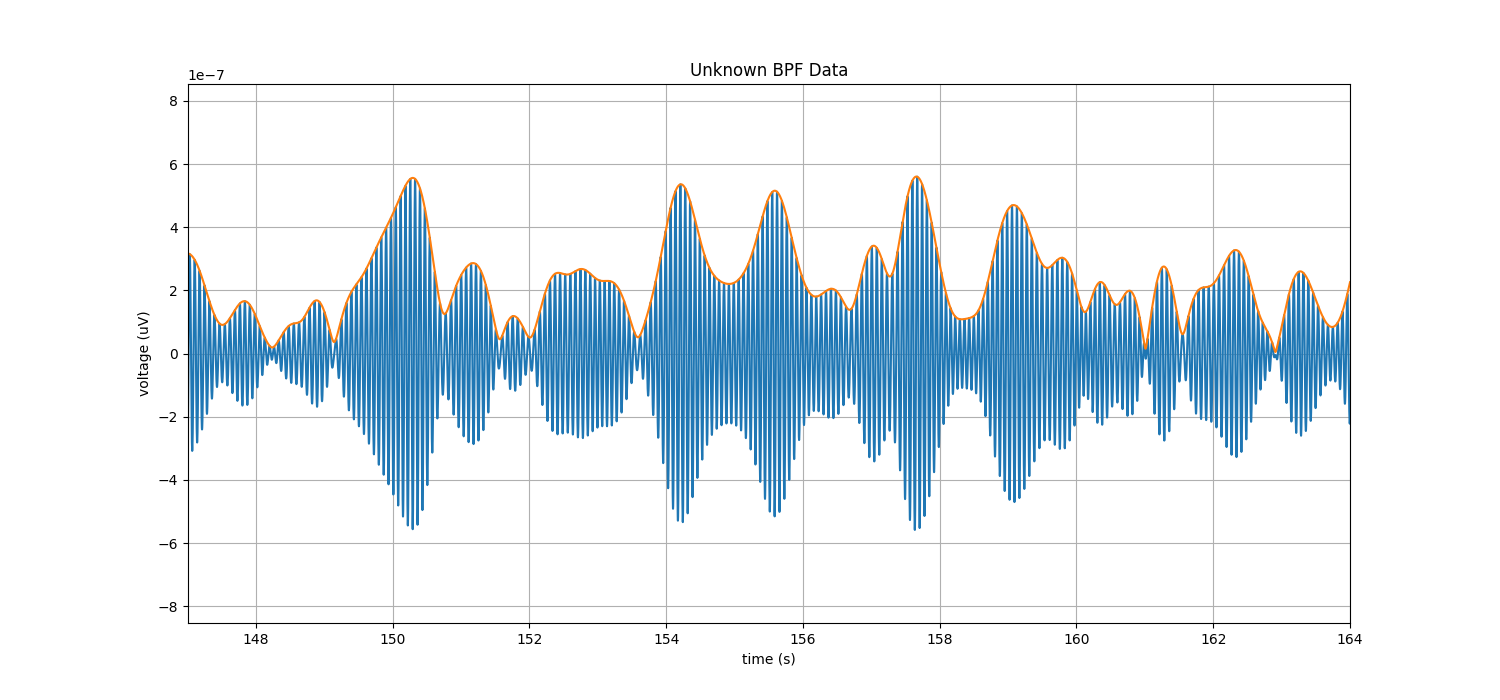
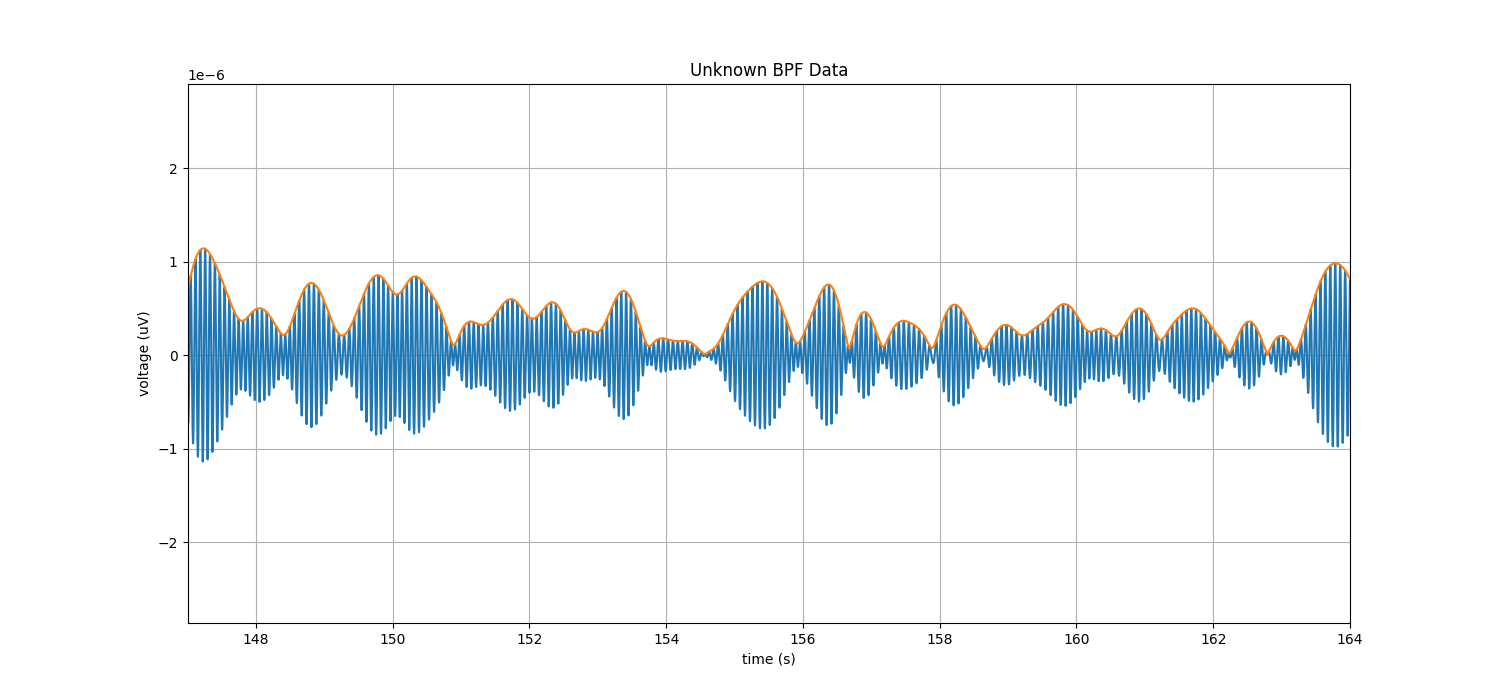
Fixing envelope

Changed region(s): [[0.1227, 0.24, 0.92, 0.78]]

diff --git a/filter_ssvep_data.py b/filter_ssvep_data.py
@@ -45,7 +45,7 @@ def make_bandpass_filter(low_cutoff, high_cutoff, filter_order=10, fs=1000, filt
     axis[1].set_xlim(0, 60)
     axis[1].set_ylabel('amplitude (dB)')
     
-    plt.savefig(f"plots/Limit_{filter_type}_filter_{low_cutoff}-{high_cutoff}Hz_order{filter_order}.png")
+    # plt.savefig(f"plots/Limit_{filter_type}_filter_{low_cutoff}-{high_cutoff}Hz_order{filter_order}.png")
     
     return filter_coefficients
 
@@ -66,7 +66,7 @@ def filter_data(data, b):
             - filtered_data: data dictionary after having applied the filter forwards
             and backwards in time to each channel in the raw data.
     """
-    eeg = data['eeg']       
+    eeg = data['eeg'] 
 
     filter_data = signal.filtfilt(b, a=1, x=eeg)
     
@@ -90,22 +90,27 @@ def get_envelope(data, filtered_data, channel_to_plot=None, ssvep_frequency=None
             - envelope (array | Shape (n_channels, n_time_points)): Amplitude of oscillations.
     
     """
+    eeg = data['eeg']  
+    fs = data['fs']
+    channels = data['channels']
+    
+     # Create time variable
+    number_of_samples = np.shape(eeg[0]) # number of samples in one session
+    eeg_end_time = 1/fs * number_of_samples[0] # time point when the session ends in seconds
+    time = np.linspace(start= 0, stop=eeg_end_time, num=number_of_samples[0]) 
+    amplitude_envelope = []
+    int_ch_plot = int(channel_to_plot)
+    
+    for channel_idx, channel in enumerate(channels):
+
+        filtered_signal_channel = filtered_data[channel_idx]
+        analytical_signal = signal.hilbert(filtered_signal_channel)
+        amplitude_envelope.append(np.abs(analytical_signal))
+
     if channel_to_plot is not None:
-        eeg = data['eeg']  
-        fs = data['fs']
-        
-        # Create time variable
-        number_of_samples = np.shape(eeg[0]) # number of samples in one session
-        eeg_end_time = 1/fs * number_of_samples[0] # time point when the session ends in seconds
-        time = np.linspace(start= 0, stop=eeg_end_time, num=number_of_samples[0]) 
-
-        filtered_signal = filtered_data[int(channel_to_plot)]
-        analytical_signal = signal.hilbert(filtered_signal)
-        amplitude_envelope = np.abs(analytical_signal)
-
         figure, axis = plt.subplots(1,1, figsize=(15, 7)) 
-        axis.plot(time, filtered_signal, label="Filtered signal")
-        axis.plot(time, amplitude_envelope, label="Envelope")
+        axis.plot(time, filtered_data[int_ch_plot], label="Filtered signal")
+        axis.plot(time, amplitude_envelope[int_ch_plot], label="Envelope")
         axis.set_xlim(147, 164)
         
         # axis.set_ylim(-10, 10)
@@ -117,8 +122,7 @@ def get_envelope(data, filtered_data, channel_to_plot=None, ssvep_frequency=None
             axis.set_title("Unknown BPF Data")
         axis.grid(True)
        
-        plt.savefig(f'plots/Channel_{channel_to_plot}-{ssvep_frequency}Hz.png')
-        # Create new plot of that channel
+        # plt.savefig(f'plots/Channel_{channel_to_plot}-{ssvep_frequency}Hz.png')
 
     return amplitude_envelope
 
@@ -180,7 +184,7 @@ def plot_ssvep_amplitudes(data, envelope_a, envelope_b, channel_to_plot, ssvep_f
     
     plt.suptitle(f'SSVEP S{subject} Amplitudes - Channel {channel_to_plot}')
     plt.tight_layout()
-    plt.savefig(f"plots/Channel_{channel_to_plot}_Subject_{subject}_{ssvep_freq_a}Hz-{ssvep_freq_b}Hz_envelope_comparison_limit.png")
+    # plt.savefig(f"plots/Channel_{channel_to_plot}_Subject_{subject}_{ssvep_freq_a}Hz-{ssvep_freq_b}Hz_envelope_comparison_limit.png")
     
 # Part 6
 def plot_filtered_spectra(data, filtered_data, envelope, channels_to_plot, subject):
@@ -201,26 +205,45 @@ def plot_filtered_spectra(data, filtered_data, envelope, channels_to_plot, subje
         ----------
             None
     """
+    
     # Use cases from Lab3 
     channels = data['channels']
     fs = data['fs']
 
     # Plots raw data
-    # isd.plot_raw_data(subject, data_dict, channels_to_plot)
     eeg_epochs, epoch_times, is_trial_15Hz = epoch_ssvep_data(data)
-
-    # Get the FFT
+    egg_epochs_fft, fft_frequencies = get_frequency_spectrum(eeg_epochs, fs) # eeg_epochs_fft -> (20, 32, 10001)
+    raw_spectrum_db_12Hz, raw_spectrum_db_15Hz = plot_power_spectrum(egg_epochs_fft, fft_frequencies, is_trial_15Hz, channels, channels_to_plot, subject)
+    
+    # Plots filtered_data # (32, 467580)
+    eeg_epochs, epoch_times, is_trial_15Hz= epoch_filtered_data(data, filtered_data, epoch_start_time=0, epoch_end_time=20)
     egg_epochs_fft, fft_frequencies = get_frequency_spectrum(eeg_epochs, fs)
+    filtered_spectrum_db_12Hz, filtered_spectrum_db_15Hz = plot_power_spectrum(egg_epochs_fft, fft_frequencies, is_trial_15Hz, channels, channels_to_plot, subject)
 
-    # # Plot the power Spectrum
-    plot_power_spectrum(egg_epochs_fft, fft_frequencies, is_trial_15Hz, channels, channels_to_plot, subject)
+    # Plots envelope
+    eeg_epochs, epoch_times, is_trial_15Hz = epoch_ssvep_data(envelope)
+    egg_epochs_fft, fft_frequencies = get_frequency_spectrum(eeg_epochs, fs)
+    envelope_spectrum_db_12Hz, envelope_spectrum_db_15Hz = plot_power_spectrum(egg_epochs_fft, fft_frequencies, is_trial_15Hz, channels, channels_to_plot, subject)
+    
     
     # Create Figure    
     fig, axs = plt.subplots(3, 2, sharex= True, figsize=(12, 6))
+    for channel, channel_index in enumerate(channels_to_plot):
+        print(channel)
+        exit()
+        axs[channel].plot(fft_frequencies, spectrum_db_12Hz[channel], label='12Hz Trials')
+        axs[channel].plot(fft_frequencies, spectrum_db_15Hz[channel], label='15Hz Trials')
+        axs[channel].axvline(x=12, linestyle='--', color='gray')
+        axs[channel].axvline(x=15, linestyle='--', color='gray')
+        #format plot
+        axs[channel].set_title(f'Channel {channels[channel_index]} Power Spectrum (Subject {subject})')
+        axs[channel].set_ylabel('Power (dB)')
+        axs[channel].legend()
+    
     
 # Plotting power spectrum from Lab 3
 #%% Part 5
-def plot_power_spectrum(eeg_epochs_fft, fft_frequencies, is_trial_15Hz, channels, channels_to_plot, subject ):
+def plot_power_spectrum(eeg_epochs_fft, fft_frequencies, is_trial_15Hz, channels, channels_to_plot, subject):
     """
         Calculate the mean power spectra for the specified channels
         and then, plot each in their own subplot.
@@ -255,7 +278,6 @@ def plot_power_spectrum(eeg_epochs_fft, fft_frequencies, is_trial_15Hz, channels
     
     # Create subplots
     fig, axs = plt.subplots(len(channels_to_plot), 1, figsize=(12, 8), sharex=True)
-    
     
     # Iterate over each channel to plot
     for channel, channel_index in enumerate(channels_to_plot):
@@ -292,18 +314,47 @@ def plot_power_spectrum(eeg_epochs_fft, fft_frequencies, is_trial_15Hz, channels
         spectrum_db_15Hz.append(10 * np.log10(mean_power_15Hz_norm))       
 
        # Plot the mean power spectra
-        axs[channel].plot(fft_frequencies, spectrum_db_12Hz[channel], label='12Hz Trials')
-        axs[channel].plot(fft_frequencies, spectrum_db_15Hz[channel], label='15Hz Trials')
-        axs[channel].axvline(x=12, linestyle='--', color='gray')
-        axs[channel].axvline(x=15, linestyle='--', color='gray')
-        #format plot
-        axs[channel].set_title(f'Channel {channels[channel_index]} Power Spectrum (Subject {subject})')
-        axs[channel].set_ylabel('Power (dB)')
-        axs[channel].legend()
+    #     axs[channel].plot(fft_frequencies, spectrum_db_12Hz[channel], label='12Hz Trials')
+    #     axs[channel].plot(fft_frequencies, spectrum_db_15Hz[channel], label='15Hz Trials')
+    #     axs[channel].axvline(x=12, linestyle='--', color='gray')
+    #     axs[channel].axvline(x=15, linestyle='--', color='gray')
+    #     #format plot
+    #     axs[channel].set_title(f'Channel {channels[channel_index]} Power Spectrum (Subject {subject})')
+    #     axs[channel].set_ylabel('Power (dB)')
+    #     axs[channel].legend()
 
-    plt.xlabel('Frequency (Hz)')
-    plt.tight_layout()
-    #save plot
-    plt.savefig(f'plots/power_spectrum/SSVEP_S{subject}_Power Spectrum_Full_diffEpochStartEnd.png')
+    # plt.xlabel('Frequency (Hz)')
+    # plt.tight_layout()
+    # #save plot
+    # plt.savefig(f'plots/power_spectrum/SSVEP_S{subject}_Power Spectrum_Full_diffEpochStartEnd.png')
 
     return spectrum_db_12Hz, spectrum_db_15Hz
+
+def epoch_filtered_data(data, eeg_data, epoch_start_time=0, epoch_end_time=20):
+    fs = data['fs'] # 1000
+    event_samples = data['event_samples'] # (20,)
+    event_durations = data['event_durations'] # (20,) -> how long each event occured for
+    event_types = data['event_types'] # (20,) -> frequency of flickering (12Hz or 15Hz)
+    channels = data['channels'] # names of channels (32,)
+    # Get the samples per epoch time dimension    
+    samples_per_second = fs # Hz
+    seconds_per_epoch = epoch_end_time - epoch_start_time
+    samples_per_epoch = int(samples_per_second * seconds_per_epoch) 
+    
+    # Create empty 3D array of epochs. 
+    eeg_epochs = np.zeros((len(event_samples), len(channels), samples_per_epoch)) # (20, 32, 20000)
+    
+    # Loop through samples to extract epochs    
+    for event_index, event in enumerate(event_samples):
+        before_flash = epoch_start_time * samples_per_epoch
+        start_sample = int(event + before_flash) # When the event starts
+        end_sample = int((event + event_durations[event_index]))
+        eeg_epochs[event_index] = eeg_data[:, start_sample:end_sample]
+
+    # Get the epoch times 1D of times relative to events
+    epoch_times = np.arange(epoch_start_time, epoch_end_time, 1/samples_per_second ) # Shape (20000,)
+
+    # Change 15Hz for True values
+    is_trial_15Hz = [False if x == "12hz" else True for x in event_types]    
+    
+    return eeg_epochs, epoch_times, is_trial_15Hz

diff --git a/test_filter_ssvep_data.py b/test_filter_ssvep_data.py
@@ -3,7 +3,7 @@ from import_ssvep_data import plot_raw_data as plot
 from import_ssvep_data import epoch_ssvep_data
 import numpy as np
 from import_ssvep_data import get_frequency_spectrum, epoch_ssvep_data
-from filter_ssvep_data import make_bandpass_filter, filter_data, get_envelope, plot_ssvep_amplitudes
+from filter_ssvep_data import make_bandpass_filter, filter_data, get_envelope, plot_ssvep_amplitudes, plot_filtered_spectra
 
 subject = 2
 data_directory = "SSVEP_data"
@@ -24,7 +24,11 @@ filtered_data_2 = filter_data(data, filter_coeff_2)
 envelope_1 = get_envelope(data, filtered_data_1, "3", None)
 envelope_2 = get_envelope(data, filtered_data_2, "5", None)
 
-# Part 5
-channel_to_plot = 29 # Oz channel
-plot_ssvep_amplitudes(data, envelope_1, envelope_2, channel_to_plot, 12, 15, subject)
+# # Part 5
+# channel_to_plot = 29 # Oz channel
+# plot_ssvep_amplitudes(data, envelope_1, envelope_2, channel_to_plot, 12, 15, subject)
+
+# # Part 6
+# channels_to_plot= [4, 29] #index of channels where FZ and OZ is the name respectively
+# plot_filtered_spectra(data, filtered_data_1, envelope_1, channels_to_plot, subject)
 
